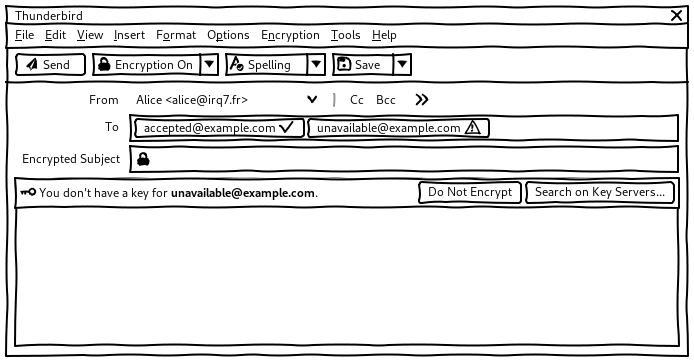
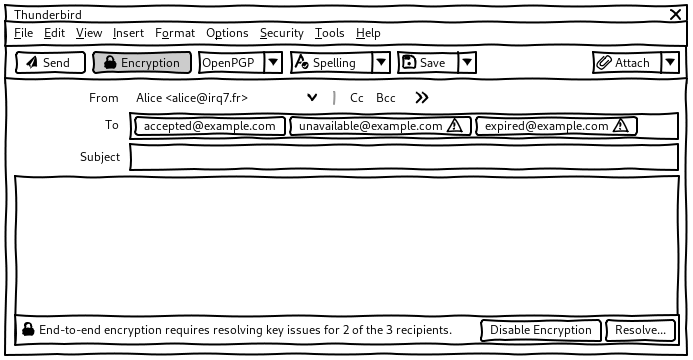
Update example screen

Changed region(s): [[0.0, 0.0, 1.0, 1.0]]

diff --git a/jekyll/index.md b/jekyll/index.md
@@ -93,18 +93,12 @@ testing](https://simplysecure.org/blog/formative-testing).
 
 Gus Andrews helped interview, facilitate, and debrief the tests with P1 and P2.
 
-Design elements
+Composer window
 ---------------
 
-### Overview
-
-**Example screen**
+### Example screen
 
 ![](mockups/composer.png)
-
-**Summary**
-
-![](mockups/summary.png)
 
 ### Account settings
 
